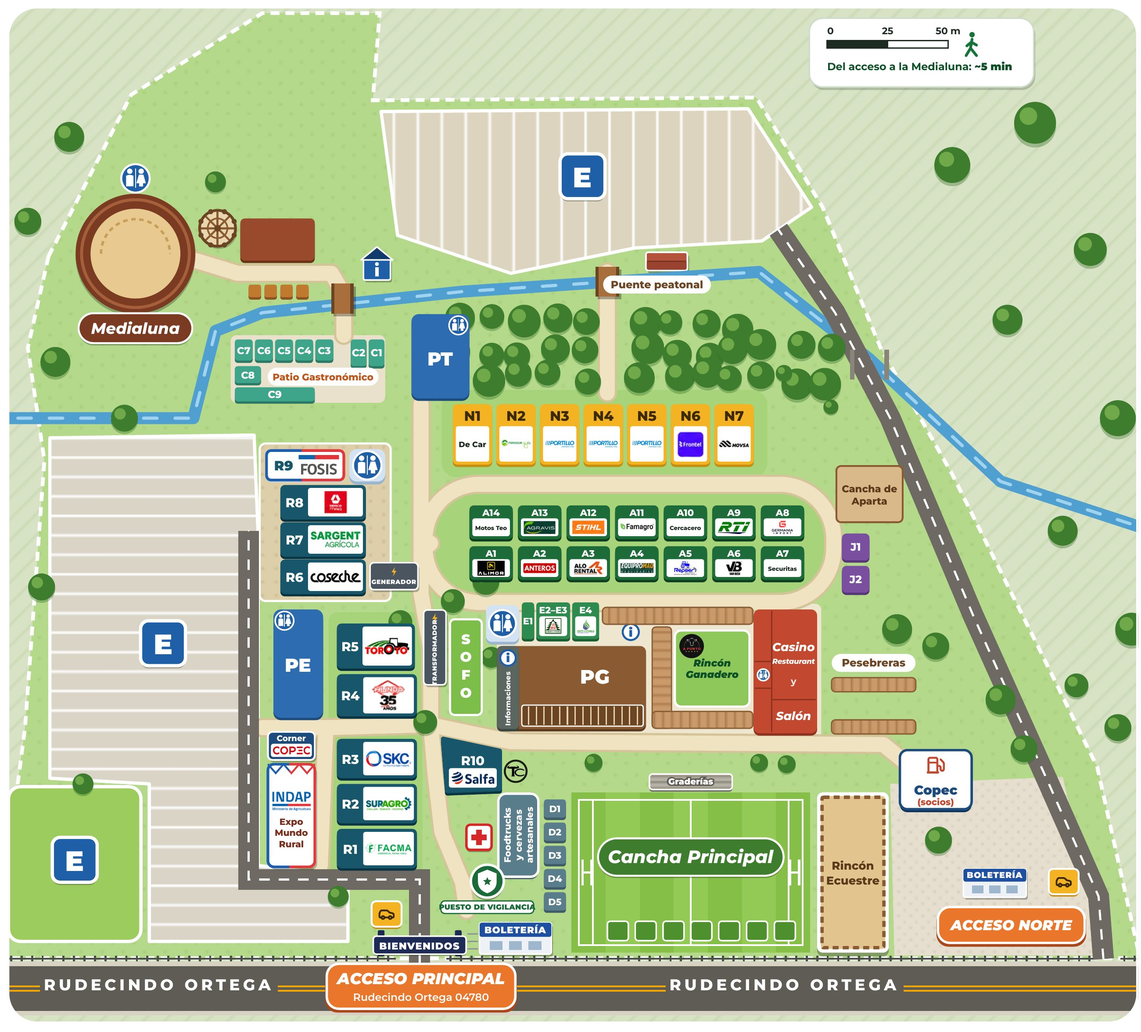
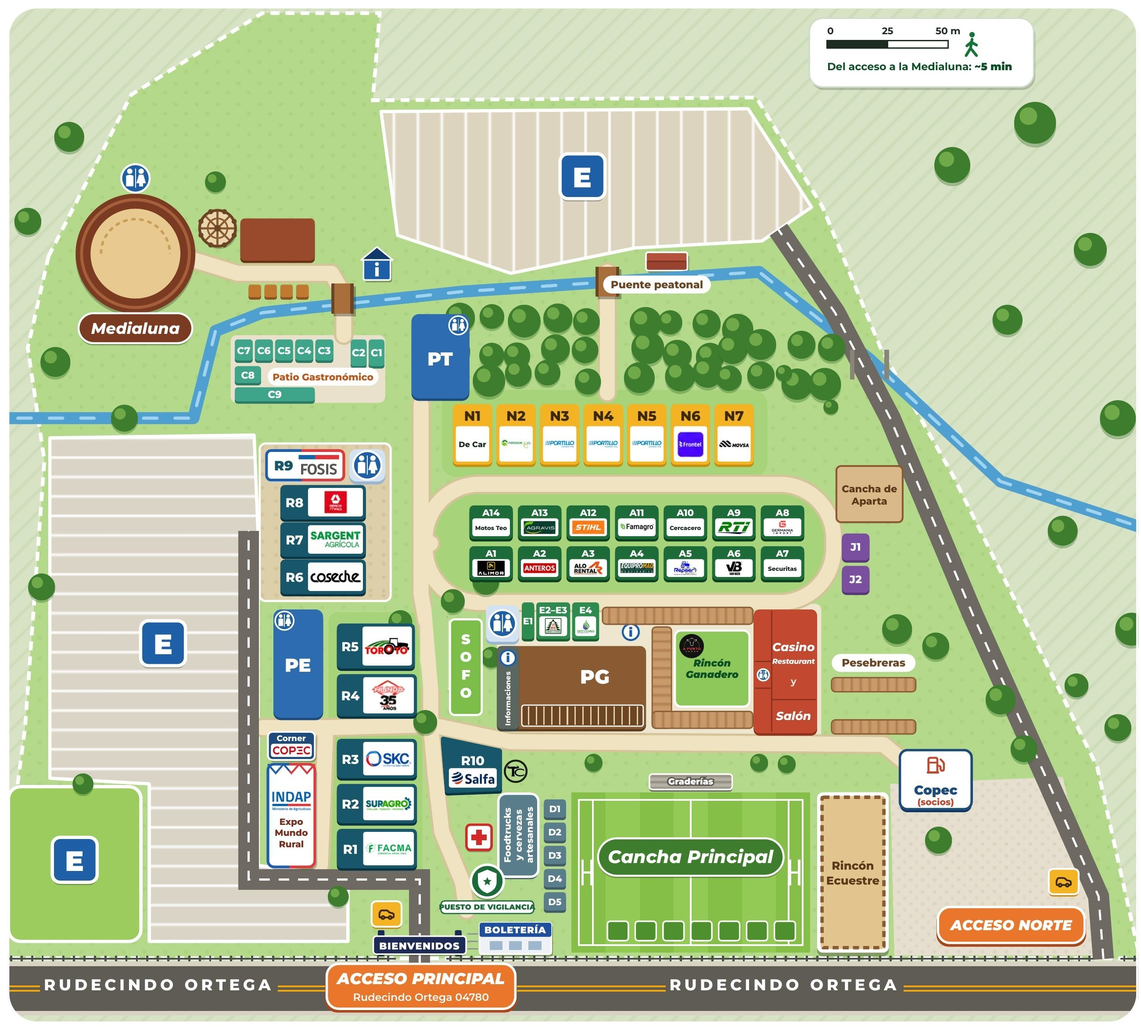
Mapa: filtros de servicios y limpieza (generador, transformador, boletería norte)
Agrega sub-filtros Todos/Baños/Comida/Básicos/Generales al activar Servicios. Quita del mapa el generador de R6, el transformador junto a SOFO y la boletería del Acceso Norte (se mantiene el ícono de autos). Caché 20261111c.

Claude-Session: https://claude.ai/code/session_01MxRANKMx9Cxet7yB8hYh2E

Changed region(s): [[0.3115, 0.5276, 0.405, 0.6828], [0.8412, 0.838, 0.9035, 0.869]]

diff --git a/app.js b/app.js
@@ -1,5 +1,5 @@
 (function(){
-var D={"days": [{"k": "jue", "n": "Jueves 19", "date": "2026-11-19", "s": "Día del Agricultor e Innovación"}, {"k": "vie", "n": "Viernes 20", "date": "2026-11-20", "s": "Día Institucional y Gremial"}, {"k": "sab", "n": "Sábado 21", "date": "2026-11-21", "s": "Tradiciones, espectáculo y familia"}, {"k": "dom", "n": "Domingo 22", "date": "2026-11-22", "s": "Tradiciones, espectáculo y familia"}], "evs": [{"id": "jue0", "d": "jue", "date": "2026-11-19", "s": "10:00", "e": "10:00", "se": "", "t": "Apertura del parque", "det": "", "lug": "", "pin": "", "tipo": "ap"}, {"id": "jue1", "d": "jue", "date": "2026-11-19", "s": "10:00", "e": "20:00", "se": "20:00", "t": "Exposiciones y muestras", "det": ["Bovinos, equinos y ovinos, aves de corral y granja educativa", "Rincón Ganadero y Rincón Ecuestre", "Maquinaria agrícola, automotriz, inmobiliaria y servicios del agro", "Expo Mundo Rural INDAP y Expo Emprendimiento FOSIS", "Patio Gastronómico y artesanías"], "lug": "Parque SOFO", "pin": "", "tipo": "lista"}, {"id": "jue2", "d": "jue", "date": "2026-11-19", "s": "10:00", "e": "12:00", "se": "12:00", "t": "Recepción delegaciones", "det": "INDAP / estudiantes", "lug": "", "pin": "", "tipo": ""}, {"id": "jue3", "d": "jue", "date": "2026-11-19", "s": "10:00", "e": "11:00", "se": "11:00", "t": "Estaciones demostrativas berries", "det": "UFRO", "lug": "Salón Canelo", "pin": "casino", "tipo": ""}, {"id": "jue4", "d": "jue", "date": "2026-11-19", "s": "10:00", "e": "11:00", "se": "11:00", "t": "Charla de maquinaria", "det": "", "lug": "Pabellón Empresas", "pin": "pe", "tipo": ""}, {"id": "jue5", "d": "jue", "date": "2026-11-19", "s": "10:00", "e": "18:00", "se": "18:00", "t": "Jura y premiación Concurso ganadero", "det": "Bovinos, equinos y ovinos", "lug": "Cancha Principal", "pin": "cancha", "tipo": "hito"}, {"id": "jue6", "d": "jue", "date": "2026-11-19", "s": "11:00", "e": "18:00", "se": "18:00", "t": "Foro agrícola", "det": "", "lug": "Pabellón Empresas", "pin": "pe", "tipo": ""}, {"id": "jue7", "d": "jue", "date": "2026-11-19", "s": "12:00", "e": "13:00", "se": "13:00", "t": "Demostración de drones", "det": "", "lug": "Cancha verde del estacionamiento", "pin": "estac", "tipo": ""}, {"id": "jue8", "d": "jue", "date": "2026-11-19", "s": "16:00", "e": "18:30", "se": "18:30", "t": "Ciclo de charlas agrícolas", "det": ["Avellano europeo · AGRICHILE", "Innovación y tecnología en el agro · ANASAC", "Charla financiera · GLOBAL66", "Fertilización · DERCOMAQ"], "lug": "Casino · Salón Copihue", "pin": "casino", "tipo": "charlas"}, {"id": "jue9", "d": "jue", "date": "2026-11-19", "s": "20:00", "e": "20:00", "se": "", "t": "Cierre del parque", "det": "", "lug": "", "pin": "", "tipo": "ap"}, {"id": "vie0", "d": "vie", "date": "2026-11-20", "s": "10:00", "e": "10:00", "se": "", "t": "Apertura del parque", "det": "", "lug": "", "pin": "", "tipo": "ap"}, {"id": "vie1", "d": "vie", "date": "2026-11-20", "s": "10:00", "e": "21:00", "se": "21:00", "t": "Exposiciones y muestras", "det": ["Bovinos, equinos y ovinos, aves de corral y granja educativa", "Rincón Ganadero y Rincón Ecuestre", "Maquinaria agrícola, automotriz, inmobiliaria y servicios del agro", "Expo Mundo Rural INDAP y Expo Emprendimiento FOSIS", "Patio Gastronómico y artesanías"], "lug": "Parque SOFO", "pin": "", "tipo": "lista"}, {"id": "vie2", "d": "vie", "date": "2026-11-20", "s": "11:00", "e": "13:00", "se": "13:00", "t": "Acto oficial EXPOSOFO 2026", "det": "", "lug": "Cancha Principal", "pin": "cancha", "tipo": "hito"}, {"id": "vie3", "d": "vie", "date": "2026-11-20", "s": "15:00", "e": "16:00", "se": "", "t": "Demostración Conecta Maquinaria", "det": "", "lug": "Cancha Principal", "pin": "cancha", "tipo": ""}, {"id": "vie4", "d": "vie", "date": "2026-11-20", "s": "15:00", "e": "18:00", "se": "18:00", "t": "Foro agrícola", "det": "", "lug": "Pabellón Empresas", "pin": "pe", "tipo": ""}, {"id": "vie5", "d": "vie", "date": "2026-11-20", "s": "16:00", "e": "17:00", "se": "", "t": "Charla ganadera y demostración manejo ovino", "det": "Fedecarne y Jóvenes pastores 🇦🇷", "lug": "Pabellón Ganadero", "pin": "pg", "tipo": ""}, {"id": "vie6", "d": "vie", "date": "2026-11-20", "s": "16:00", "e": "17:00", "se": "", "t": "Competencia aparta de ganado", "det": "", "lug": "Corral de Aparta", "pin": "aparta", "tipo": ""}, {"id": "vie7", "d": "vie", "date": "2026-11-20", "s": "21:00", "e": "21:00", "se": "", "t": "Cierre del parque", "det": "", "lug": "", "pin": "", "tipo": "ap"}, {"id": "sab0", "d": "sab", "date": "2026-11-21", "s": "10:00", "e": "10:00", "se": "", "t": "Apertura del parque", "det": "", "lug": "", "pin": "", "tipo": "ap"}, {"id": "sab1", "d": "sab", "date": "2026-11-21", "s": "10:00", "e": "20:00", "se": "20:00", "t": "Rodeo", "det": "", "lug": "Medialuna", "pin": "medialuna", "tipo": ""}, {"id": "sab2", "d": "sab", "date": "2026-11-21", "s": "10:00", "e": "22:00", "se": "22:00", "t": "Exposiciones y muestras", "det": ["Bovinos, equinos y ovinos, aves de corral y granja educativa", "Rincón Ganadero y Rincón Ecuestre", "Maquinaria agrícola, automotriz, inmobiliaria y servicios del agro", "Expo Mundo Rural INDAP y Expo Emprendimiento FOSIS", "Patio Gastronómico y artesanías"], "lug": "Parque SOFO", "pin": "", "tipo": "lista"}, {"id": "sab3", "d": "sab", "date": "2026-11-21", "s": "11:00", "e": "13:00", "se": "13:00", "t": "Jura de caballos árabes", "det": "", "lug": "Cancha Principal", "pin": "cancha", "tipo": ""}, {"id": "sab4", "d": "sab", "date": "2026-11-21", "s": "13:30", "e": "14:30", "se": "14:30", "t": "Lanzamiento Expo Chol Chol", "det": "", "lug": "Cancha Principal", "pin": "cancha", "tipo": ""}, {"id": "sab5", "d": "sab", "date": "2026-11-21", "s": "15:00", "e": "18:00", "se": "18:00", "t": "Gran Show Ecuestre", "det": ["Apertura del Show", "Demostración de coches", "Escuadra árabe Haras Santa Ana", "Escuadra Huella Ecuestre", "Carrera de corpóreos", "Demostración Barrilete", "Presentación Haras Militar Pupunahue y Regimiento Húsares", "Presentación cuadro negro del Ejército", "Desfile de cierre"], "lug": "Cancha Principal", "pin": "cancha", "tipo": "show"}, {"id": "sab6", "d": "sab", "date": "2026-11-21", "s": "18:30", "e": "22:00", "se": "", "t": "SOFO FEST", "det": "Disonancia (rock & pop) · Grupo Ranchero", "lug": "Cancha Principal", "pin": "cancha", "tipo": "hito"}, {"id": "sab7", "d": "sab", "date": "2026-11-21", "s": "22:00", "e": "22:00", "se": "", "t": "Cierre del parque", "det": "", "lug": "", "pin": "", "tipo": "ap"}, {"id": "dom0", "d": "dom", "date": "2026-11-22", "s": "10:00", "e": "10:00", "se": "", "t": "Apertura del parque", "det": "", "lug": "", "pin": "", "tipo": "ap"}, {"id": "dom1", "d": "dom", "date": "2026-11-22", "s": "10:00", "e": "20:00", "se": "20:00", "t": "Rodeo", "det": "", "lug": "Medialuna", "pin": "medialuna", "tipo": ""}, {"id": "dom2", "d": "dom", "date": "2026-11-22", "s": "10:00", "e": "20:00", "se": "20:00", "t": "Exposiciones y muestras", "det": ["Bovinos, equinos y ovinos, aves de corral y granja educativa", "Rincón Ganadero y Rincón Ecuestre", "Maquinaria agrícola, automotriz, inmobiliaria y servicios del agro", "Expo Mundo Rural INDAP y Expo Emprendimiento FOSIS", "Patio Gastronómico y artesanías"], "lug": "Parque SOFO", "pin": "", "tipo": "lista"}, {"id": "dom3", "d": "dom", "date": "2026-11-22", "s": "12:00", "e": "13:00", "se": "13:00", "t": "Show infantil", "det": "", "lug": "Cancha Principal", "pin": "cancha", "tipo": ""}, {"id": "dom4", "d": "dom", "date": "2026-11-22", "s": "13:00", "e": "13:30", "se": "13:30", "t": "Brigada Canina SAG", "det": "", "lug": "Cancha Principal", "pin": "cancha", "tipo": ""}, {"id": "dom5", "d": "dom", "date": "2026-11-22", "s": "13:30", "e": "14:30", "se": "14:30", "t": "Lanzamiento Expo Loncoche", "det": "", "lug": "Cancha Principal", "pin": "cancha", "tipo": ""}, {"id": "dom6", "d": "dom", "date": "2026-11-22", "s": "15:00", "e": "18:00", "se": "18:00", "t": "Gran Show Ecuestre", "det": ["Apertura del Show", "Demostración de coches", "Escuadra árabe Haras Santa Ana", "Escuadra Huella Ecuestre", "Carrera de corpóreos", "Demostración Barrilete", "Presentación Haras Militar Pupunahue y Regimiento Húsares", "Presentación cuadro negro del Ejército", "Desfile de cierre"], "lug": "Cancha Principal", "pin": "cancha", "tipo": "show"}, {"id": "dom7", "d": "dom", "date": "2026-11-22", "s": "21:00", "e": "21:00", "se": "", "t": "Cierre del parque", "det": "", "lug": "", "pin": "", "tipo": "ap"}], "pins": {"cancha": {"n": "Cancha Principal", "x": 60.3, "y": 78.8, "c": "#157439"}, "medialuna": {"n": "Medialuna", "x": 12.5, "y": 24.7, "c": "#8a4b24"}, "pe": {"n": "Pabellón Empresas", "x": 26.4, "y": 61.8, "c": "#2b6cb0"}, "pg": {"n": "Pabellón Ganadero", "x": 52.1, "y": 64.2, "c": "#8a4b24"}, "casino": {"n": "Casino · Salones", "x": 68.5, "y": 66.5, "c": "#c0392b"}, "aparta": {"n": "Corral de Aparta", "x": 75.8, "y": 49.5, "c": "#9a6b3f"}, "estac": {"n": "Cancha verde", "x": 7.2, "y": 80.5, "c": "#3d6fb6", "al": "l"}}, "serv": [{"n": "Acceso principal", "x": 37.1, "y": 93.0, "i": "🚪", "al": "r"}, {"n": "Patio Gastronómico", "x": 28.7, "y": 35.0, "i": "🍽"}, {"n": "Primeros auxilios", "x": 40.8, "y": 80.3, "i": "➕", "al": "l"}, {"n": "Seguridad", "x": 41.8, "y": 86.6, "i": "🛡", "al": "l"}, {"n": "Foodtrucks y cerveza artesanal", "x": 46.6, "y": 80.3, "i": "🍔", "al": "r"}, {"n": "Restaurant (sáb y dom)", "x": 68.8, "y": 62.5, "i": "🍴"}, {"n": "Juegos inflables", "x": 75.0, "y": 56.1, "i": "🏰", "al": "t"}, {"n": "Baño principal", "x": 32.2, "y": 45.1, "i": "🚻", "p": 1, "al": "r"}, {"n": "Baños", "sm": 1, "x": 11.8, "y": 17.3, "i": "🚻"}, {"n": "Baños", "sm": 1, "x": 40.1, "y": 31.5, "i": "🚻", "al": "r"}, {"n": "Baños", "sm": 1, "x": 24.8, "y": 60.1, "i": "🚻", "al": "l"}, {"n": "Baños", "sm": 1, "x": 44.0, "y": 60.2, "i": "🚻", "al": "r"}]}, EV=D.evs, PINS=D.pins, $=function(s){return document.getElementById(s)};
+var D={"days": [{"k": "jue", "n": "Jueves 19", "date": "2026-11-19", "s": "Día del Agricultor e Innovación"}, {"k": "vie", "n": "Viernes 20", "date": "2026-11-20", "s": "Día Institucional y Gremial"}, {"k": "sab", "n": "Sábado 21", "date": "2026-11-21", "s": "Tradiciones, espectáculo y familia"}, {"k": "dom", "n": "Domingo 22", "date": "2026-11-22", "s": "Tradiciones, espectáculo y familia"}], "evs": [{"id": "jue0", "d": "jue", "date": "2026-11-19", "s": "10:00", "e": "10:00", "se": "", "t": "Apertura del parque", "det": "", "lug": "", "pin": "", "tipo": "ap"}, {"id": "jue1", "d": "jue", "date": "2026-11-19", "s": "10:00", "e": "20:00", "se": "20:00", "t": "Exposiciones y muestras", "det": ["Bovinos, equinos y ovinos, aves de corral y granja educativa", "Rincón Ganadero y Rincón Ecuestre", "Maquinaria agrícola, automotriz, inmobiliaria y servicios del agro", "Expo Mundo Rural INDAP y Expo Emprendimiento FOSIS", "Patio Gastronómico y artesanías"], "lug": "Parque SOFO", "pin": "", "tipo": "lista"}, {"id": "jue2", "d": "jue", "date": "2026-11-19", "s": "10:00", "e": "12:00", "se": "12:00", "t": "Recepción delegaciones", "det": "INDAP / estudiantes", "lug": "", "pin": "", "tipo": ""}, {"id": "jue3", "d": "jue", "date": "2026-11-19", "s": "10:00", "e": "11:00", "se": "11:00", "t": "Estaciones demostrativas berries", "det": "UFRO", "lug": "Salón Canelo", "pin": "casino", "tipo": ""}, {"id": "jue4", "d": "jue", "date": "2026-11-19", "s": "10:00", "e": "11:00", "se": "11:00", "t": "Charla de maquinaria", "det": "", "lug": "Pabellón Empresas", "pin": "pe", "tipo": ""}, {"id": "jue5", "d": "jue", "date": "2026-11-19", "s": "10:00", "e": "18:00", "se": "18:00", "t": "Jura y premiación Concurso ganadero", "det": "Bovinos, equinos y ovinos", "lug": "Cancha Principal", "pin": "cancha", "tipo": "hito"}, {"id": "jue6", "d": "jue", "date": "2026-11-19", "s": "11:00", "e": "18:00", "se": "18:00", "t": "Foro agrícola", "det": "", "lug": "Pabellón Empresas", "pin": "pe", "tipo": ""}, {"id": "jue7", "d": "jue", "date": "2026-11-19", "s": "12:00", "e": "13:00", "se": "13:00", "t": "Demostración de drones", "det": "", "lug": "Cancha verde del estacionamiento", "pin": "estac", "tipo": ""}, {"id": "jue8", "d": "jue", "date": "2026-11-19", "s": "16:00", "e": "18:30", "se": "18:30", "t": "Ciclo de charlas agrícolas", "det": ["Avellano europeo · AGRICHILE", "Innovación y tecnología en el agro · ANASAC", "Charla financiera · GLOBAL66", "Fertilización · DERCOMAQ"], "lug": "Casino · Salón Copihue", "pin": "casino", "tipo": "charlas"}, {"id": "jue9", "d": "jue", "date": "2026-11-19", "s": "20:00", "e": "20:00", "se": "", "t": "Cierre del parque", "det": "", "lug": "", "pin": "", "tipo": "ap"}, {"id": "vie0", "d": "vie", "date": "2026-11-20", "s": "10:00", "e": "10:00", "se": "", "t": "Apertura del parque", "det": "", "lug": "", "pin": "", "tipo": "ap"}, {"id": "vie1", "d": "vie", "date": "2026-11-20", "s": "10:00", "e": "21:00", "se": "21:00", "t": "Exposiciones y muestras", "det": ["Bovinos, equinos y ovinos, aves de corral y granja educativa", "Rincón Ganadero y Rincón Ecuestre", "Maquinaria agrícola, automotriz, inmobiliaria y servicios del agro", "Expo Mundo Rural INDAP y Expo Emprendimiento FOSIS", "Patio Gastronómico y artesanías"], "lug": "Parque SOFO", "pin": "", "tipo": "lista"}, {"id": "vie2", "d": "vie", "date": "2026-11-20", "s": "11:00", "e": "13:00", "se": "13:00", "t": "Acto oficial EXPOSOFO 2026", "det": "", "lug": "Cancha Principal", "pin": "cancha", "tipo": "hito"}, {"id": "vie3", "d": "vie", "date": "2026-11-20", "s": "15:00", "e": "16:00", "se": "", "t": "Demostración Conecta Maquinaria", "det": "", "lug": "Cancha Principal", "pin": "cancha", "tipo": ""}, {"id": "vie4", "d": "vie", "date": "2026-11-20", "s": "15:00", "e": "18:00", "se": "18:00", "t": "Foro agrícola", "det": "", "lug": "Pabellón Empresas", "pin": "pe", "tipo": ""}, {"id": "vie5", "d": "vie", "date": "2026-11-20", "s": "16:00", "e": "17:00", "se": "", "t": "Charla ganadera y demostración manejo ovino", "det": "Fedecarne y Jóvenes pastores 🇦🇷", "lug": "Pabellón Ganadero", "pin": "pg", "tipo": ""}, {"id": "vie6", "d": "vie", "date": "2026-11-20", "s": "16:00", "e": "17:00", "se": "", "t": "Competencia aparta de ganado", "det": "", "lug": "Corral de Aparta", "pin": "aparta", "tipo": ""}, {"id": "vie7", "d": "vie", "date": "2026-11-20", "s": "21:00", "e": "21:00", "se": "", "t": "Cierre del parque", "det": "", "lug": "", "pin": "", "tipo": "ap"}, {"id": "sab0", "d": "sab", "date": "2026-11-21", "s": "10:00", "e": "10:00", "se": "", "t": "Apertura del parque", "det": "", "lug": "", "pin": "", "tipo": "ap"}, {"id": "sab1", "d": "sab", "date": "2026-11-21", "s": "10:00", "e": "20:00", "se": "20:00", "t": "Rodeo", "det": "", "lug": "Medialuna", "pin": "medialuna", "tipo": ""}, {"id": "sab2", "d": "sab", "date": "2026-11-21", "s": "10:00", "e": "22:00", "se": "22:00", "t": "Exposiciones y muestras", "det": ["Bovinos, equinos y ovinos, aves de corral y granja educativa", "Rincón Ganadero y Rincón Ecuestre", "Maquinaria agrícola, automotriz, inmobiliaria y servicios del agro", "Expo Mundo Rural INDAP y Expo Emprendimiento FOSIS", "Patio Gastronómico y artesanías"], "lug": "Parque SOFO", "pin": "", "tipo": "lista"}, {"id": "sab3", "d": "sab", "date": "2026-11-21", "s": "11:00", "e": "13:00", "se": "13:00", "t": "Jura de caballos árabes", "det": "", "lug": "Cancha Principal", "pin": "cancha", "tipo": ""}, {"id": "sab4", "d": "sab", "date": "2026-11-21", "s": "13:30", "e": "14:30", "se": "14:30", "t": "Lanzamiento Expo Chol Chol", "det": "", "lug": "Cancha Principal", "pin": "cancha", "tipo": ""}, {"id": "sab5", "d": "sab", "date": "2026-11-21", "s": "15:00", "e": "18:00", "se": "18:00", "t": "Gran Show Ecuestre", "det": ["Apertura del Show", "Demostración de coches", "Escuadra árabe Haras Santa Ana", "Escuadra Huella Ecuestre", "Carrera de corpóreos", "Demostración Barrilete", "Presentación Haras Militar Pupunahue y Regimiento Húsares", "Presentación cuadro negro del Ejército", "Desfile de cierre"], "lug": "Cancha Principal", "pin": "cancha", "tipo": "show"}, {"id": "sab6", "d": "sab", "date": "2026-11-21", "s": "18:30", "e": "22:00", "se": "", "t": "SOFO FEST", "det": "Disonancia (rock & pop) · Grupo Ranchero", "lug": "Cancha Principal", "pin": "cancha", "tipo": "hito"}, {"id": "sab7", "d": "sab", "date": "2026-11-21", "s": "22:00", "e": "22:00", "se": "", "t": "Cierre del parque", "det": "", "lug": "", "pin": "", "tipo": "ap"}, {"id": "dom0", "d": "dom", "date": "2026-11-22", "s": "10:00", "e": "10:00", "se": "", "t": "Apertura del parque", "det": "", "lug": "", "pin": "", "tipo": "ap"}, {"id": "dom1", "d": "dom", "date": "2026-11-22", "s": "10:00", "e": "20:00", "se": "20:00", "t": "Rodeo", "det": "", "lug": "Medialuna", "pin": "medialuna", "tipo": ""}, {"id": "dom2", "d": "dom", "date": "2026-11-22", "s": "10:00", "e": "20:00", "se": "20:00", "t": "Exposiciones y muestras", "det": ["Bovinos, equinos y ovinos, aves de corral y granja educativa", "Rincón Ganadero y Rincón Ecuestre", "Maquinaria agrícola, automotriz, inmobiliaria y servicios del agro", "Expo Mundo Rural INDAP y Expo Emprendimiento FOSIS", "Patio Gastronómico y artesanías"], "lug": "Parque SOFO", "pin": "", "tipo": "lista"}, {"id": "dom3", "d": "dom", "date": "2026-11-22", "s": "12:00", "e": "13:00", "se": "13:00", "t": "Show infantil", "det": "", "lug": "Cancha Principal", "pin": "cancha", "tipo": ""}, {"id": "dom4", "d": "dom", "date": "2026-11-22", "s": "13:00", "e": "13:30", "se": "13:30", "t": "Brigada Canina SAG", "det": "", "lug": "Cancha Principal", "pin": "cancha", "tipo": ""}, {"id": "dom5", "d": "dom", "date": "2026-11-22", "s": "13:30", "e": "14:30", "se": "14:30", "t": "Lanzamiento Expo Loncoche", "det": "", "lug": "Cancha Principal", "pin": "cancha", "tipo": ""}, {"id": "dom6", "d": "dom", "date": "2026-11-22", "s": "15:00", "e": "18:00", "se": "18:00", "t": "Gran Show Ecuestre", "det": ["Apertura del Show", "Demostración de coches", "Escuadra árabe Haras Santa Ana", "Escuadra Huella Ecuestre", "Carrera de corpóreos", "Demostración Barrilete", "Presentación Haras Militar Pupunahue y Regimiento Húsares", "Presentación cuadro negro del Ejército", "Desfile de cierre"], "lug": "Cancha Principal", "pin": "cancha", "tipo": "show"}, {"id": "dom7", "d": "dom", "date": "2026-11-22", "s": "21:00", "e": "21:00", "se": "", "t": "Cierre del parque", "det": "", "lug": "", "pin": "", "tipo": "ap"}], "pins": {"cancha": {"n": "Cancha Principal", "x": 60.3, "y": 78.8, "c": "#157439"}, "medialuna": {"n": "Medialuna", "x": 12.5, "y": 24.7, "c": "#8a4b24"}, "pe": {"n": "Pabellón Empresas", "x": 26.4, "y": 61.8, "c": "#2b6cb0"}, "pg": {"n": "Pabellón Ganadero", "x": 52.1, "y": 64.2, "c": "#8a4b24"}, "casino": {"n": "Casino · Salones", "x": 68.5, "y": 66.5, "c": "#c0392b"}, "aparta": {"n": "Corral de Aparta", "x": 75.8, "y": 49.5, "c": "#9a6b3f"}, "estac": {"n": "Cancha verde", "x": 7.2, "y": 80.5, "c": "#3d6fb6", "al": "l"}}, "serv": [{"n": "Acceso principal", "c": "gen", "x": 37.1, "y": 93.0, "i": "🚪", "al": "r"}, {"n": "Patio Gastronómico", "c": "com", "x": 28.7, "y": 35.0, "i": "🍽"}, {"n": "Primeros auxilios", "c": "bas", "x": 40.8, "y": 80.3, "i": "➕", "al": "l"}, {"n": "Seguridad", "c": "bas", "x": 41.8, "y": 86.6, "i": "🛡", "al": "l"}, {"n": "Foodtrucks y cerveza artesanal", "c": "com", "x": 46.6, "y": 80.3, "i": "🍔", "al": "r"}, {"n": "Restaurant (sáb y dom)", "c": "com", "x": 68.8, "y": 62.5, "i": "🍴"}, {"n": "Juegos inflables", "c": "gen", "x": 75.0, "y": 56.1, "i": "🏰", "al": "t"}, {"n": "Baño principal", "c": "ban", "x": 32.2, "y": 45.1, "i": "🚻", "p": 1, "al": "r"}, {"n": "Baños", "c": "ban", "sm": 1, "x": 11.8, "y": 17.3, "i": "🚻"}, {"n": "Baños", "c": "ban", "sm": 1, "x": 40.1, "y": 31.5, "i": "🚻", "al": "r"}, {"n": "Baños", "c": "ban", "sm": 1, "x": 24.8, "y": 60.1, "i": "🚻", "al": "l"}, {"n": "Baños", "c": "ban", "sm": 1, "x": 44.0, "y": 60.2, "i": "🚻", "al": "r"}]}, EV=D.evs, PINS=D.pins, $=function(s){return document.getElementById(s)};
 var MAPI='<svg width="13" height="13" viewBox="0 0 24 24" fill="none" stroke="currentColor" stroke-width="2.4" stroke-linecap="round" stroke-linejoin="round"><path d="M20 10c0 6-8 12-8 12S4 16 4 10a8 8 0 0 1 16 0Z"/><circle cx="12" cy="10" r="3"/></svg>';
 function esc(s){return String(s).replace(/[&<>"]/g,function(c){return{'&':'&amp;','<':'&lt;','>':'&gt;','"':'&quot;'}[c]})}
 function ls(k,v){try{if(v===undefined)return JSON.parse(localStorage.getItem(k));localStorage.setItem(k,JSON.stringify(v))}catch(e){return null}}
@@ -124,15 +124,18 @@ Object.keys(PINS).forEach(function(k){var p=PINS[k],b=document.createElement('bu
  b.innerHTML='<span class="halo"></span><div class="bd" style="background:'+p.c+'"><span>★</span></div><span class="lb">'+esc(p.n)+'</span>';b.onclick=function(){openPin(k)};mi.appendChild(b)});
 
 // --- servicios
-D.serv.forEach(function(v){var b=document.createElement('div');b.className='sv';b.style.left=v.x+'%';b.style.top=v.y+'%';if(v.al)b.className+=' al'+v.al;if(v.p)b.className+=' pri';if(v.sm)b.className+=' sm';b.innerHTML=v.i+'<span class="lb2">'+esc(v.n)+'</span>';mi.appendChild(b)});
+D.serv.forEach(function(v){var b=document.createElement('div');b.className='sv';b.style.left=v.x+'%';b.style.top=v.y+'%';if(v.al)b.className+=' al'+v.al;if(v.p)b.className+=' pri';if(v.sm)b.className+=' sm';b.dataset.c=v.c;b.innerHTML=v.i+'<span class="lb2">'+esc(v.n)+'</span>';mi.appendChild(b)});
 // --- filtros (opcionales, combinables)
 var F={fav:1,act:0,serv:0};
 $('mf').innerHTML='<button data-f="fav">★ Favoritos</button><button data-f="act">Actividades</button><button data-f="serv">Servicios</button><button data-f="clr">Limpiar</button>';
-$('mf').querySelectorAll('button').forEach(function(b){b.onclick=function(){var f=b.dataset.f;if(f==='clr'){F={fav:1,act:0,serv:0}}else F[f]=F[f]?0:1;applyFilter()}});
+$('mf').querySelectorAll('button').forEach(function(b){b.onclick=function(){var f=b.dataset.f;if(f==='clr'){F={fav:1,act:0,serv:0};SC='all'}else F[f]=F[f]?0:1;applyFilter()}});
+var SC='all';$('msf').innerHTML='<button data-c="all">Todos</button><button data-c="ban">Baños</button><button data-c="com">Comida</button><button data-c="bas">Básicos</button><button data-c="gen">Generales</button>';
+$('msf').querySelectorAll('button').forEach(function(b){b.onclick=function(){SC=b.dataset.c;F.serv=1;applyFilter()}});
 function applyFilter(){
  $('mf').querySelectorAll('button').forEach(function(b){b.classList.toggle('on',!!F[b.dataset.f])});
  document.querySelectorAll('.pin').forEach(function(p){p.classList.toggle('vis',!!((F.fav&&p.classList.contains('hasfav'))||F.act||p.classList.contains('sel')))});
- document.querySelectorAll('.sv').forEach(function(v){v.classList.toggle('vis',!!F.serv)});
+ document.querySelectorAll('.sv').forEach(function(v){v.classList.toggle('vis',!!F.serv&&(SC==='all'||v.dataset.c===SC))});
+ $('msf').classList.toggle('show',!!F.serv);$('msf').querySelectorAll('button').forEach(function(b){b.classList.toggle('on',b.dataset.c===SC)});
 }
 // --- zoom con los dedos (pellizcar, arrastrar, doble toque)
 var S=1,TX=0,TY=0,PT={},g=null,moved=false,lastTap=0,lastXY=null,vel={x:0,y:0},raf=0;

diff --git a/index.html b/index.html
@@ -130,7 +130,7 @@ ol.evs{list-style:none;padding:4px 10px 8px}
 
 .pin.sel .bd{outline:3px solid var(--y);outline-offset:2px}
 .sv{position:absolute;transform:translate(-50%,-50%) scale(var(--iz));width:24px;height:24px;border-radius:50%;background:#fff;border:1.5px solid #9fb5a5;font-size:12px;display:none;align-items:center;justify-content:center;z-index:2;padding:0;box-shadow:0 2px 5px rgba(0,0,0,.2)}
-.sv.vis{display:flex}.sv.sm{width:18px;height:18px;font-size:10px;border-width:1px}.sv.sm .lb2{font-size:8.5px;padding:0 4px}.sv.pri{width:32px;height:32px;font-size:17px;border:2.5px solid #157439;z-index:3}.sv.pri .lb2{background:#157439;color:#fff;font-size:10.5px}.sv.all .lb2{top:50%;left:auto;right:100%;transform:translateY(-50%);margin:0 3px 0 0}.sv.alt .lb2{top:auto;bottom:100%;margin:0 0 2px 0}.sv.alr .lb2{top:50%;left:100%;transform:translateY(-50%);margin:0 0 0 3px}
+.sv.vis{display:flex}.msf{display:none!important}.msf.show{display:flex!important}.mf.msf button{font-size:11.5px;padding:5px 10px}.sv.sm{width:18px;height:18px;font-size:10px;border-width:1px}.sv.sm .lb2{font-size:8.5px;padding:0 4px}.sv.pri{width:32px;height:32px;font-size:17px;border:2.5px solid #157439;z-index:3}.sv.pri .lb2{background:#157439;color:#fff;font-size:10.5px}.sv.all .lb2{top:50%;left:auto;right:100%;transform:translateY(-50%);margin:0 3px 0 0}.sv.alt .lb2{top:auto;bottom:100%;margin:0 0 2px 0}.sv.alr .lb2{top:50%;left:100%;transform:translateY(-50%);margin:0 0 0 3px}
 .sv .lb2{position:absolute;top:100%;left:50%;transform:translateX(-50%);margin-top:2px;background:#fff;color:var(--ink);font-size:9.5px;font-weight:700;padding:1px 6px;border-radius:8px;white-space:nowrap;box-shadow:0 1px 4px rgba(0,0,0,.2)}
 .zr{position:absolute;right:10px;bottom:10px;z-index:5;border:0;background:rgba(255,255,255,.95);color:var(--gd);font-weight:800;font-size:12px;border-radius:16px;padding:7px 11px;box-shadow:0 3px 10px rgba(0,0,0,.2);opacity:0;pointer-events:none;transition:opacity .25s ease}
 .zr.on{opacity:1;pointer-events:auto}
@@ -212,7 +212,7 @@ footer{text-align:center;font-size:11px;color:var(--mut);padding:6px 16px 28px;l
 </div>
 <div class="view" id="v-mapa">
  
- <div class="mf" id="mf"></div>
+ <div class="mf" id="mf"></div><div class="mf msf" id="msf"></div>
  <div class="mapw"><div class="mapbox" id="mb"><div class="mapin" id="mi"><img id="mimg" src="img/mapa.jpg" width="2600" height="2352" alt="Mapa del Parque SOFO" draggable="false"></div></div>
  <button class="zr" id="zr">Ver mapa completo</button></div>
  <p class="hint">Pellizca con dos dedos para acercar, arrastra para moverte y toca dos veces para hacer zoom. Tus favoritos ★ se destacan en el mapa.</p>
@@ -242,4 +242,4 @@ footer{text-align:center;font-size:11px;color:var(--mut);padding:6px 16px 28px;l
 <footer>Organiza SOFO · Sociedad de Fomento Agrícola de Temuco A.G. · Uniendo el campo y la ciudad desde 1918 · Edición N° 94</footer>
 <div class="sheet" id="sheet"><div class="grab"></div><div id="shC"></div></div>
 <div id="toast"><div class="k" id="tK"></div><div class="n" id="tN"></div><div class="l" id="tL"></div><div class="tb"><button class="p" id="tMap">Ver en el mapa</button><button class="s" id="tX">Cerrar</button></div></div>
-<script src="app.js?v=20261111b" defer></script></body></html>
+<script src="app.js?v=20261111c" defer></script></body></html>

diff --git a/sw.js b/sw.js
@@ -1,4 +1,4 @@
-const C='exposofo-20261111b',CORE=["./", "index.html", "app.js?v=20261111b", "manifest.webmanifest", "img/logo.png", "img/escudo.png", "img/mapa.jpg", "img/leyenda.jpg", "img/expositores.jpg", "img/auspiciadores.jpg", "img/icon-192.png", "fonts/m-500-normal.woff2", "fonts/m-600-normal.woff2", "fonts/m-700-normal.woff2", "fonts/m-800-italic.woff2", "fonts/m-800-normal.woff2", "fonts/m-900-italic.woff2"];
+const C='exposofo-20261111c',CORE=["./", "index.html", "app.js?v=20261111c", "manifest.webmanifest", "img/logo.png", "img/escudo.png", "img/mapa.jpg", "img/leyenda.jpg", "img/expositores.jpg", "img/auspiciadores.jpg", "img/icon-192.png", "fonts/m-500-normal.woff2", "fonts/m-600-normal.woff2", "fonts/m-700-normal.woff2", "fonts/m-800-italic.woff2", "fonts/m-800-normal.woff2", "fonts/m-900-italic.woff2"];
 self.addEventListener('install',e=>{e.waitUntil(caches.open(C).then(c=>c.addAll(CORE)).then(()=>self.skipWaiting()))});
 self.addEventListener('activate',e=>{e.waitUntil(caches.keys().then(k=>Promise.all(k.filter(x=>x!==C).map(x=>caches.delete(x)))).then(()=>self.clients.claim()))});
 self.addEventListener('fetch',e=>{const u=new URL(e.request.url);if(e.request.method!=='GET'||u.origin!==location.origin)return;
